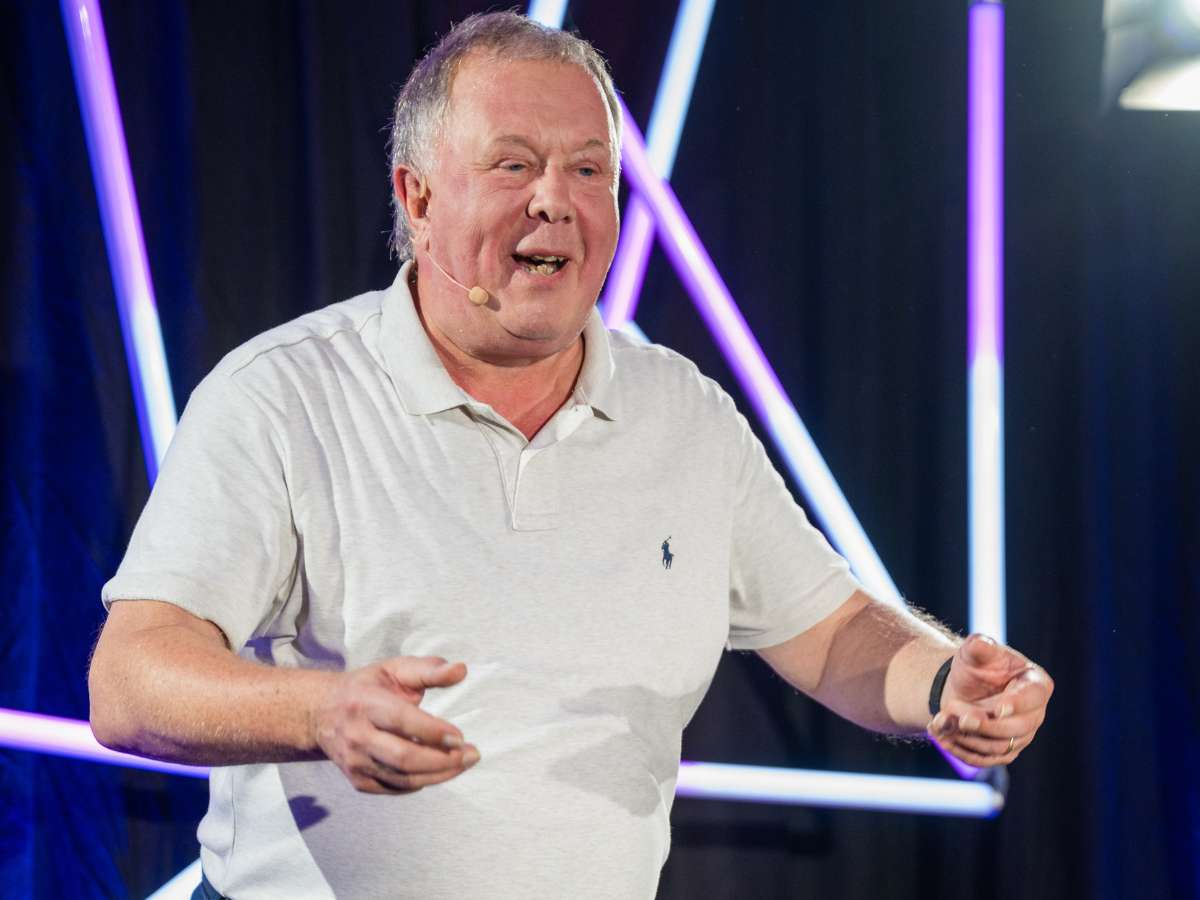
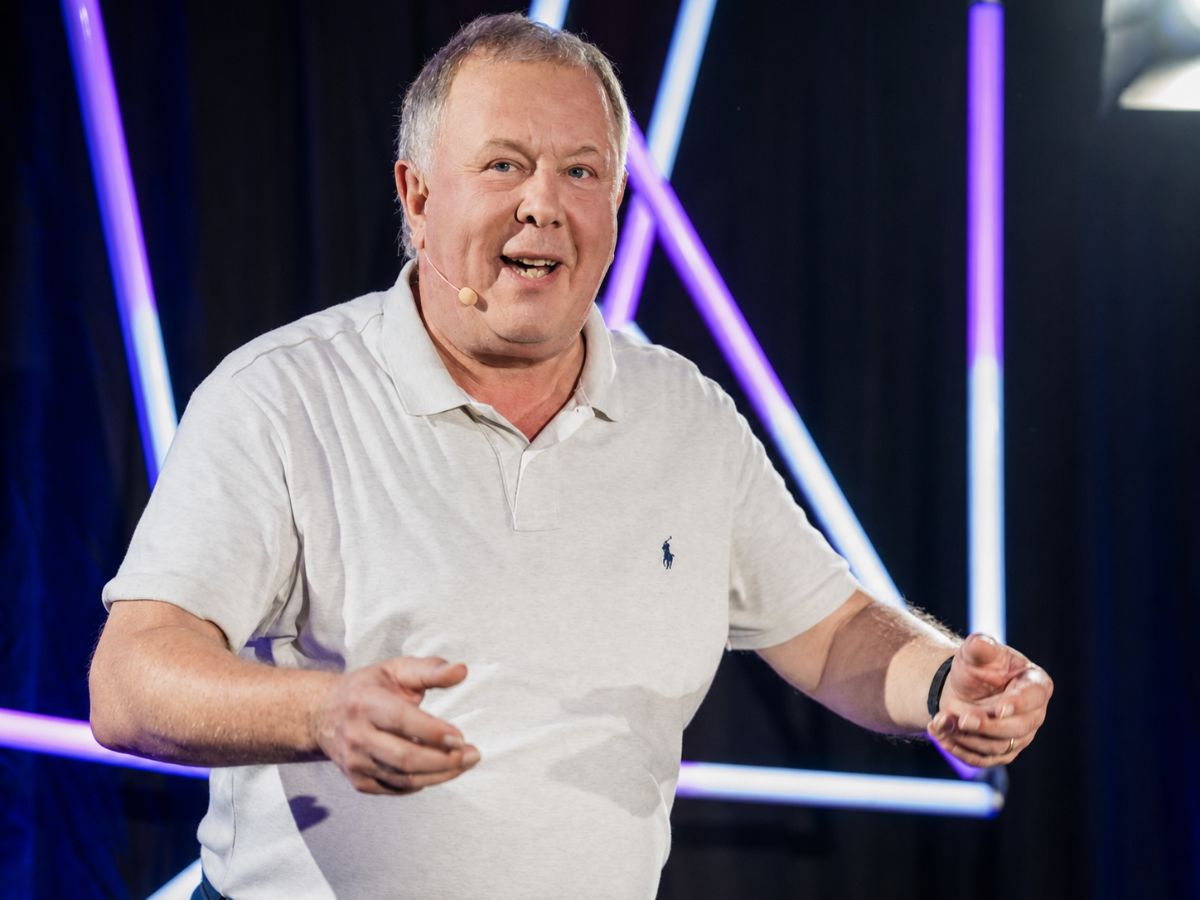
Buehnen-Sektion: neue V2-Fotos fuer Silent Speaker Battle und Speaker Slam
- event-ssb.jpg und event-speakerslam.jpg auf V2-Buehnenfotos aktualisiert (1200x900, 4:3)
- Cache-Version ?v=2 -> ?v=3
- Founder Summit unveraendert

diff --git a/index.html b/index.html
@@ -235,7 +235,7 @@
         </div>
       </article>
       <article class="buehne reveal">
-        <div class="buehne__media"><img src="bilder/event-ssb.jpg?v=2" alt="Dirk Brusch beim Silent Speaker Battle" loading="lazy"></div>
+        <div class="buehne__media"><img src="bilder/event-ssb.jpg?v=3" alt="Dirk Brusch beim Silent Speaker Battle" loading="lazy"></div>
         <div class="buehne__body">
           <h3 class="buehne__name">Silent Speaker Battle</h3>
           <p class="buehne__sub">Live vor Publikum</p>
@@ -243,7 +243,7 @@
         </div>
       </article>
       <article class="buehne reveal">
-        <div class="buehne__media"><img src="bilder/event-speakerslam.jpg?v=2" alt="Dirk Brusch beim Internationalen Speaker Slam" loading="lazy"></div>
+        <div class="buehne__media"><img src="bilder/event-speakerslam.jpg?v=3" alt="Dirk Brusch beim Internationalen Speaker Slam" loading="lazy"></div>
         <div class="buehne__body">
           <h3 class="buehne__name">Internationaler Speaker Slam</h3>
           <p class="buehne__sub">Große Bühne, kurzer Slot, volle Wirkung</p>